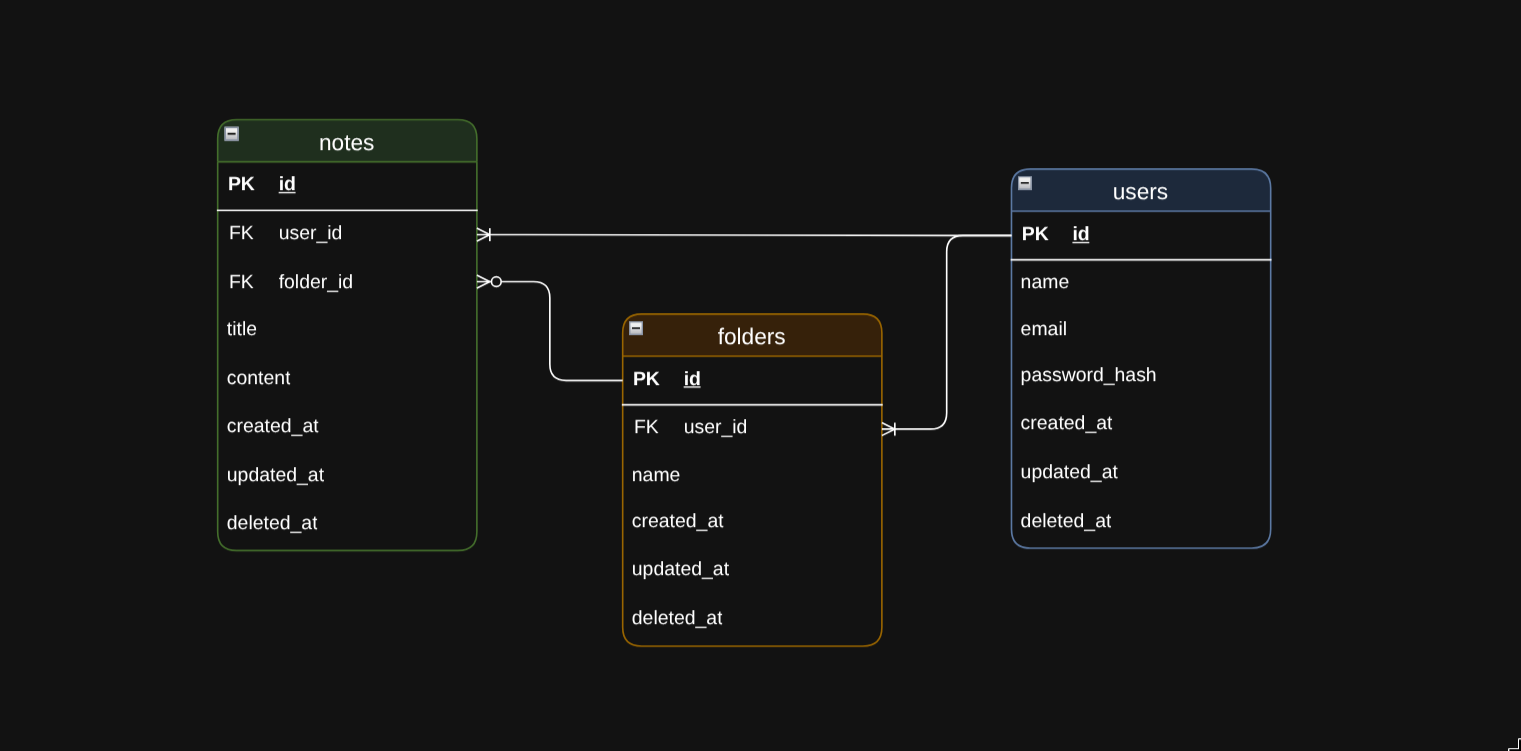
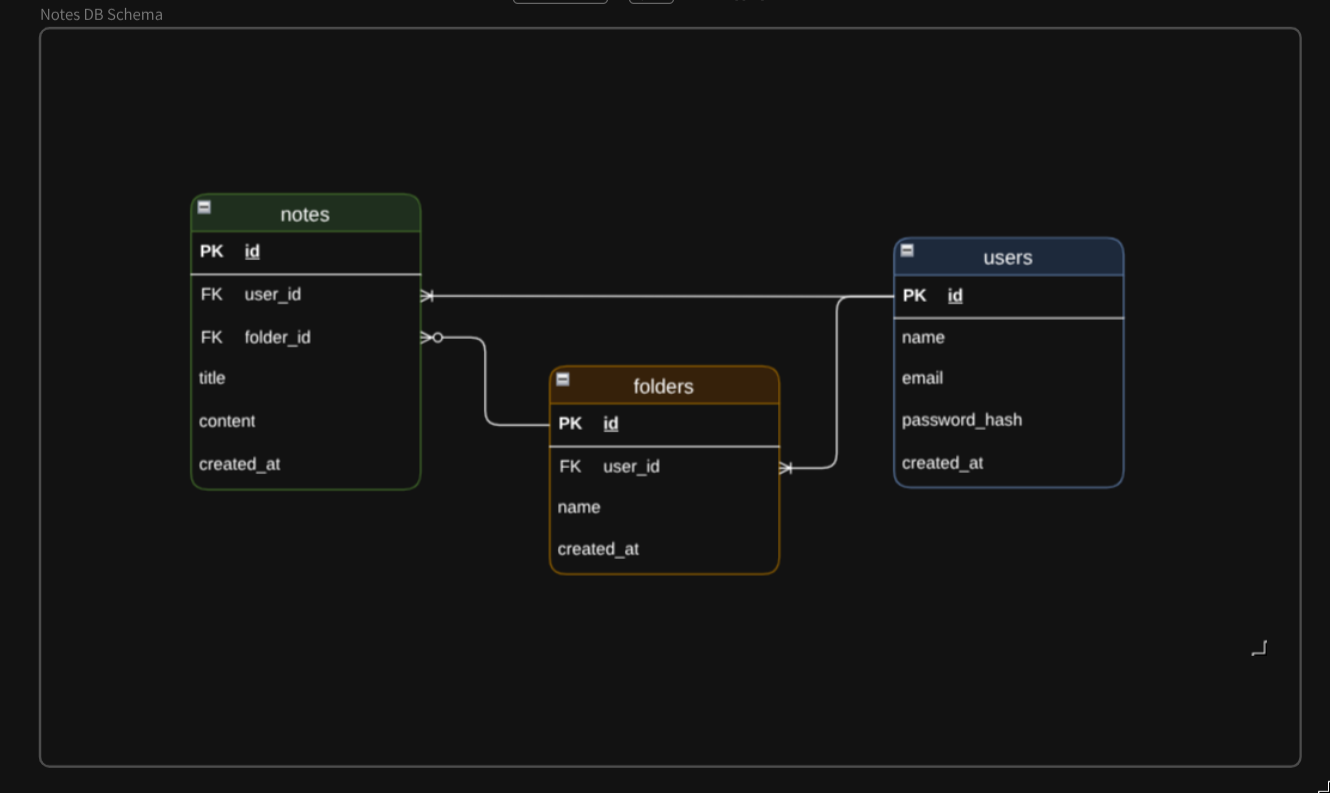
Update README

diff --git a/README.md b/README.md
@@ -1,5 +1,7 @@
 # Notes Fullstack
 
+A modern, secure, and lightning-fast full-stack note-taking application designed for seamless organization. Built with a robust TypeScript backend and a responsive React frontend.
+
 <details>
   <summary>Schema Explanation</summary>
 
@@ -44,3 +46,118 @@
   - Optionally links to a `Folder` using a composite relation (`[folderId, userId]` references `[id, userId]`). If the parent folder is deleted, the relation safely unlinks the note (`onDelete: SetNull`) instead of deleting the note itself.
 
 </details>
+
+---
+
+## Tech Stack
+
+### **Frontend**
+* **React** with **TypeScript** for type-safe UI components.
+* **Vite** for rapid bundling and hot module replacement.
+* **TailwindCSS** for modern, responsive styling.
+
+### **Backend**
+* **Node.js** & **Express.js** REST API architecture.
+* **TypeScript** for strict type checking across controllers and middleware.
+* **Zod** for robust runtime schema validation and data sanitization.
+* **Prisma ORM** interacting with a **Neon-hosted PostgreSQL** database.
+* **Bcrypt** for secure password hashing and JWT-based authentication.
+
+---
+
+## Key Features
+
+* **Secure Authentication**: JWT-based session handling with password hashing and profile management (update name, email, and password).
+* **Folder Organization**: Group notes into custom folders with strict user-ownership validation.
+* **Advanced Note CRUD**: Create, read, update, and delete individual notes or perform **batch deletions** securely.
+* **Contextual Filtering**: Fetch notes dynamically filtered by folder context or view all root notes.
+* **Strict Input Validation**: Every incoming request payload and route parameter is rigorously validated using Zod middleware.
+
+---
+
+## Getting Started
+
+### Prerequisites
+Make sure you have the following installed on your machine:
+* **Node.js** (v22 or higher)
+* **npm** or **yarn**
+* A **PostgreSQL** database instance (e.g., Neon)
+
+### 1. Clone the Repository
+```bash
+git clone [https://github.com/AlyKazani04/notes-fullstack.git](https://github.com/AlyKazani04/notes-fullstack.git)
+cd notes-fullstack
+
+```
+
+### 2. Environment Variables Setup
+
+Create a `.env` file in the both directories from the `.env.example`s and configure the variables.
+
+### 3. Install Dependencies
+
+```bash
+# Install dependencies in each dir separately
+npm install
+
+```
+
+### 4. Database Migration
+
+Run Prisma migrations to set up your PostgreSQL schema:
+
+```bash
+# in backend/
+npx prisma migrate dev --name init
+
+```
+
+### 5. Running the Application
+
+The project is fully containerized using Docker and Docker Compose, managing both the Express backend and Vite frontend services out of the box with live volume mapping for development.
+
+### Docker Compose Architecture
+* **`backend`**: Runs on port `3000`, built via `backend/Dockerfile` with automated Prisma client generation.
+* **`frontend`**: Runs on port `5173`, built via `frontend/Dockerfile` with Vite configured for polling and external host binding.
+
+### Starting the Stack
+
+#### Spin Up Containers
+
+Build and launch the entire application stack using a clean build to prevent volume dependency conflicts:
+```bash
+# at project root
+docker compose down -v
+docker compose build --no-cache
+docker compose up
+
+```
+
+Only the frontend development server will be available at `http://localhost:5173`.
+
+For running the backend separately, just run it in the `backend/` dir using `npm run dev`. 
+
+---
+
+## 📡 API Endpoints Summary
+
+### **Auth & User**
+
+* `POST /api/auth/register` — Create a new user account
+* `POST /api/auth/login` — Authenticate and receive a JWT token
+* `PATCH /api/users/profile` — Update user name, email, or password
+
+### **Folders**
+
+* `GET /api/folders` — Retrieve all folders for the authenticated user
+* `POST /api/folders` — Create a new folder
+* `PATCH /api/folders/:id` — Rename a specific folder
+* `DELETE /api/folders/:id` — Delete a folder
+
+### **Notes**
+
+* `GET /api/notes` — Retrieve notes (supports `?folderId=X` filtering)
+* `POST /api/notes` — Create a new note
+* `PATCH /api/notes/:id` — Update a note's title, content, or folder placement
+* `DELETE /api/notes/:id` — Delete a single note
+* `POST /api/notes/batch-delete` — Bulk delete multiple notes securely using an array of IDs
